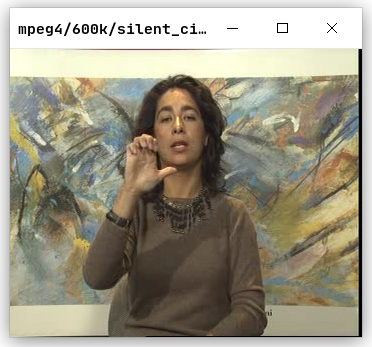
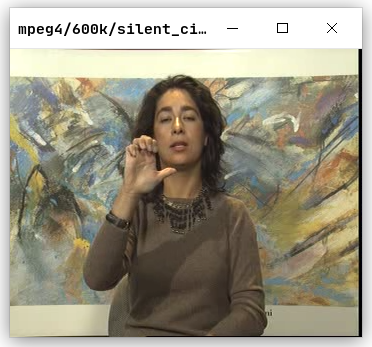
:bug: Change ffmpeg option to -bt 0

diff --git a/README.md b/README.md
@@ -1,7 +1,7 @@
 ---
 documentclass: ctexbeamer
 CJKmainfont: WenQuanYi Micro Hei
-title: 关于选择 MPEG4 还是 H264 的调研报告
+title: MPEG4与H.264主客观性能对比
 institute: USTC
 logo: images/logo.pdf
 aspectratio: 169
@@ -12,73 +12,48 @@ navigation: horizontal
 
 ## 条件
 
-为了公平起见，mpeg4 (codec 使用 libxvid) 和 h264 (codec 使用 libx264) 均设置为：
+为了公平起见，MPEG4 (codec 使用 libxvid) 和 H.264 (codec 使用 libx264) 均设置为：
 
-1. 相邻 2 个 P/I 帧间插入 3 个 B 帧
+1. 相邻 2 个 P/I 帧间插入 0 个 B 帧
 2. 比特率为 300k/600k, 误差不超过 2k
 
 ## 比较
 
 ### 客观结果
 
-从 MSE 和 PSNR 的平均结果来看，h264 比 mpeg4 好一点。例如下表中^m^代表 mpeg4,
-^h^代表 h264。MSE，PSNR 分别是负指标和正指标。下表代表在 Y，U，V 分别计算而不出
-取平均的结果。
+从 MSE 和 PSNR 的结果来看，H.264比MPEG4的性能更好。
+
+不同的序列的PSNR增益1dB到5dB不等，与视频内容相关。
 
 ## 比较 (300k)
 
-| 文件名      | MSE    | MSE~Y~ | MSE~U~ | MSE~V~ | PSNR  | PSNR~Y~ | PSNR~U~ | PSNR~V~ |
-|-------------|--------|--------|--------|--------|-------|---------|---------|---------|
-| crew^m^     | 271.59 | 371.97 | 47.48  | 94.19  | 24.6  | 23.26   | 32.27   | 29.2    |
-| crew^h^     | 21.46  | 27.63  | 7.61   | 10.6   | 34.99 | 33.89   | 39.48   | 38.04   |
-| deadline^m^ | 109.76 | 157.65 | 15.18  | 12.81  | 28.84 | 27.31   | 36.91   | 37.64   |
-| deadline^h^ | 5.74   | 7.39   | 2.58   | 2.29   | 41.0  | 39.96   | 44.22   | 44.77   |
-| harbour^m^  | 302.46 | 450.26 | 8.73   | 4.97   | 24.06 | 22.34   | 38.73   | 41.18   |
-| harbour^h^  | 46.72  | 67.76  | 5.55   | 3.72   | 31.51 | 29.9    | 40.7    | 42.45   |
-| pamphlet^m^ | 134.0  | 196.55 | 12.06  | 5.77   | 32.95 | 31.43   | 41.52   | 43.7    |
-| pamphlet^h^ | 2.21   | 2.77   | 1.32   | 0.9    | 44.99 | 44.1    | 47.07   | 48.66   |
-
-## 比较 (300k)
-
-| 文件名      | MSE    | MSE~Y~ | MSE~U~ | MSE~V~ | PSNR  | PSNR~Y~ | PSNR~U~ | PSNR~V~ |
-|-------------|--------|--------|--------|--------|-------|---------|---------|---------|
-| paris^m^    | 180.86 | 255.22 | 35.34  | 28.97  | 25.8  | 24.33   | 32.71   | 33.6    |
-| paris^h^    | 13.78  | 18.01  | 5.4    | 5.22   | 37.18 | 36.07   | 40.99   | 41.14   |
-| silent^m^   | 108.5  | 157.04 | 12.8   | 10.01  | 28.38 | 26.8    | 37.28   | 38.34   |
-| silent^h^   | 5.74   | 7.45   | 2.53   | 2.09   | 40.85 | 39.74   | 44.27   | 45.09   |
-| students^m^ | 45.39  | 63.01  | 10.56  | 9.76   | 31.95 | 30.56   | 38.07   | 38.44   |
-| students^h^ | 4.4    | 5.43   | 2.46   | 2.22   | 42.03 | 41.15   | 44.43   | 44.88   |
+| 文件名      | MSE   | MSE~Y~ | MSE~U~ | MSE~V~ | PSNR  | PSNR~Y~ | PSNR~U~ | PSNR~V~ |
+|-------------|-------|--------|--------|--------|-------|---------|---------|---------|
+| crew^m^     | 34.01 | 42.4   | 14.19  | 20.28  | 33.0  | 32.04   | 36.85   | 35.29   |
+| crew^h^     | 22.63 | 29.15  | 7.93   | 11.24  | 34.72 | 33.62   | 39.29   | 37.77   |
+| harbour^m^  | 99.6  | 146.04 | 8.51   | 4.92   | 28.22 | 26.56   | 38.84   | 41.22   |
+| harbour^h^  | 60.06 | 87.35  | 6.58   | 4.36   | 30.38 | 28.75   | 39.96   | 41.76   |
+| paris^m^    | 63.72 | 83.93  | 24.96  | 21.64  | 30.18 | 28.99   | 34.22   | 34.83   |
+| paris^h^    | 17.62 | 22.81  | 7.23   | 7.24   | 35.92 | 34.82   | 39.65   | 39.64   |
 
 ## 比较 (600k)
 
-| 文件名      | MSE    | MSE~Y~ | MSE~U~ | MSE~V~ | PSNR  | PSNR~Y~ | PSNR~U~ | PSNR~V~ |
-|-------------|--------|--------|--------|--------|-------|---------|---------|---------|
-| crew^m^     | 277.31 | 380.52 | 47.17  | 94.6   | 24.53 | 23.18   | 32.39   | 29.25   |
-| crew^h^     | 10.88  | 13.47  | 5.08   | 6.28   | 37.96 | 37.03   | 41.26   | 40.35   |
-| deadline^m^ | 101.12 | 147.14 | 9.74   | 8.44   | 29.57 | 27.96   | 39.39   | 39.95   |
-| deadline^h^ | 2.96   | 3.76   | 1.48   | 1.26   | 43.72 | 42.73   | 46.56   | 47.27   |
-| harbour^m^  | 282.41 | 420.76 | 7.17   | 4.24   | 24.63 | 22.91   | 39.6    | 41.89   |
-| harbour^h^  | 24.8   | 35.42  | 4.24   | 2.88   | 34.29 | 32.75   | 41.88   | 43.57   |
-| pamphlet^m^ | 131.73 | 193.34 | 11.56  | 5.45   | 34.0  | 32.56   | 42.38   | 44.66   |
-| pamphlet^h^ | 1.5    | 1.78   | 1.09   | 0.79   | 46.56 | 45.85   | 47.95   | 49.25   |
-
-## 比较 (600k)
-
-| 文件名      | MSE    | MSE~Y~ | MSE~U~ | MSE~V~ | PSNR  | PSNR~Y~ | PSNR~U~ | PSNR~V~ |
-|-------------|--------|--------|--------|--------|-------|---------|---------|---------|
-| paris^m^    | 159.96 | 228.98 | 24.22  | 19.66  | 26.5  | 24.97   | 34.39   | 35.39   |
-| paris^h^    | 5.57   | 7.07   | 2.62   | 2.51   | 41.05 | 40.06   | 44.1    | 44.32   |
-| silent^m^   | 104.59 | 152.45 | 9.79   | 7.96   | 28.61 | 26.99   | 38.53   | 39.44   |
-| silent^h^   | 2.56   | 3.24   | 1.29   | 1.09   | 44.3  | 43.3    | 47.16   | 47.88   |
-| students^m^ | 40.26  | 57.01  | 7.08   | 6.45   | 32.68 | 31.19   | 40.01   | 40.51   |
-| students^h^ | 2.34   | 2.87   | 1.36   | 1.19   | 44.68 | 43.82   | 46.94   | 47.5    |
+| 文件名      | MSE   | MSE~Y~ | MSE~U~ | MSE~V~ | PSNR  | PSNR~Y~ | PSNR~U~ | PSNR~V~ |
+|-------------|-------|--------|--------|--------|-------|---------|---------|---------|
+| crew^m^     | 17.67 | 21.6   | 8.48   | 11.18  | 35.81 | 34.94   | 39.02   | 37.83   |
+| crew^h^     | 11.4  | 14.06  | 5.4    | 6.76   | 37.72 | 36.8    | 40.97   | 40.02   |
+| harbour^m^  | 54.32 | 78.54  | 7.42   | 4.34   | 30.83 | 29.23   | 39.44   | 41.77   |
+| harbour^h^  | 31.91 | 45.68  | 5.26   | 3.49   | 33.14 | 31.59   | 40.94   | 42.73   |
+| paris^m^    | 26.41 | 33.52  | 12.7   | 11.68  | 33.94 | 32.9    | 37.11   | 37.47   |
+| paris^h^    | 7.14  | 8.89   | 3.67   | 3.59   | 39.79 | 38.85   | 42.59   | 42.69   |
 
 ## 比较
 
 ### 主观结果
 
-PSNR 只能衡量失真的程度，并不与人眼的观察感受完全一致。例如下图是一些测试视频以
-mpeg4 和 h264 编码后的最后一帧的图像。
+除了客观的PSNR之外，下图是一些测试视频以 MPEG4 和 H.264 编码后的最后一帧的图像。
+
+主观上能看到一些明显的块效应的减少。
 
 ## 比较 (300k)
 
@@ -87,33 +62,13 @@ mpeg4 和 h264 编码后的最后一帧的图像。
 
 ## 比较 (300k)
 
-![mpeg4/300k/deadline](images/mpeg4/300k/deadline.png "mpeg4"){width=6cm}
-![h264/300k/deadline](images/h264/300k/deadline.png "h264"){width=6cm}
-
-## 比较 (300k)
-
 ![mpeg4/300k/harbour](images/mpeg4/300k/harbour.png "mpeg4"){width=6cm}
 ![h264/300k/harbour](images/h264/300k/harbour.png "h264"){width=6cm}
 
 ## 比较 (300k)
 
-![mpeg4/300k/pamphlet](images/mpeg4/300k/pamphlet.png "mpeg4"){width=6cm}
-![h264/300k/pamphlet](images/h264/300k/pamphlet.png "h264"){width=6cm}
-
-## 比较 (300k)
-
 ![mpeg4/300k/paris](images/mpeg4/300k/paris.png "mpeg4"){width=6cm}
 ![h264/300k/paris](images/h264/300k/paris.png "h264"){width=6cm}
-
-## 比较 (300k)
-
-![mpeg4/300k/silent](images/mpeg4/300k/silent.png "mpeg4"){width=6cm}
-![h264/300k/silent](images/h264/300k/silent.png "h264"){width=6cm}
-
-## 比较 (300k)
-
-![mpeg4/300k/students](images/mpeg4/300k/students.png "mpeg4"){width=6cm}
-![h264/300k/students](images/h264/300k/students.png "h264"){width=6cm}
 
 ## 比较 (600k)
 
@@ -122,36 +77,16 @@ mpeg4 和 h264 编码后的最后一帧的图像。
 
 ## 比较 (600k)
 
-![mpeg4/600k/deadline](images/mpeg4/600k/deadline.png "mpeg4"){width=6cm}
-![h264/600k/deadline](images/h264/600k/deadline.png "h264"){width=6cm}
-
-## 比较 (600k)
-
 ![mpeg4/600k/harbour](images/mpeg4/600k/harbour.png "mpeg4"){width=6cm}
 ![h264/600k/harbour](images/h264/600k/harbour.png "h264"){width=6cm}
-
-## 比较 (600k)
-
-![mpeg4/600k/pamphlet](images/mpeg4/600k/pamphlet.png "mpeg4"){width=6cm}
-![h264/600k/pamphlet](images/h264/600k/pamphlet.png "h264"){width=6cm}
 
 ## 比较 (600k)
 
 ![mpeg4/600k/paris](images/mpeg4/600k/paris.png "mpeg4"){width=6cm}
 ![h264/600k/paris](images/h264/600k/paris.png "h264"){width=6cm}
 
-## 比较 (600k)
-
-![mpeg4/600k/silent](images/mpeg4/600k/silent.png "mpeg4"){width=6cm}
-![h264/600k/silent](images/h264/600k/silent.png "h264"){width=6cm}
-
-## 比较 (600k)
-
-![mpeg4/600k/students](images/mpeg4/600k/students.png "mpeg4"){width=6cm}
-![h264/600k/students](images/h264/600k/students.png "h264"){width=6cm}
-
 ## 比较
 
 ### 结论
 
-注意到 h264 主观上比 mpeg4 质量更好，建议更换为 h264 。
+目前的软件方案表明，无论是主观质量还是客观质量，H.264均表现出比MPEG4更好的编码性能。
